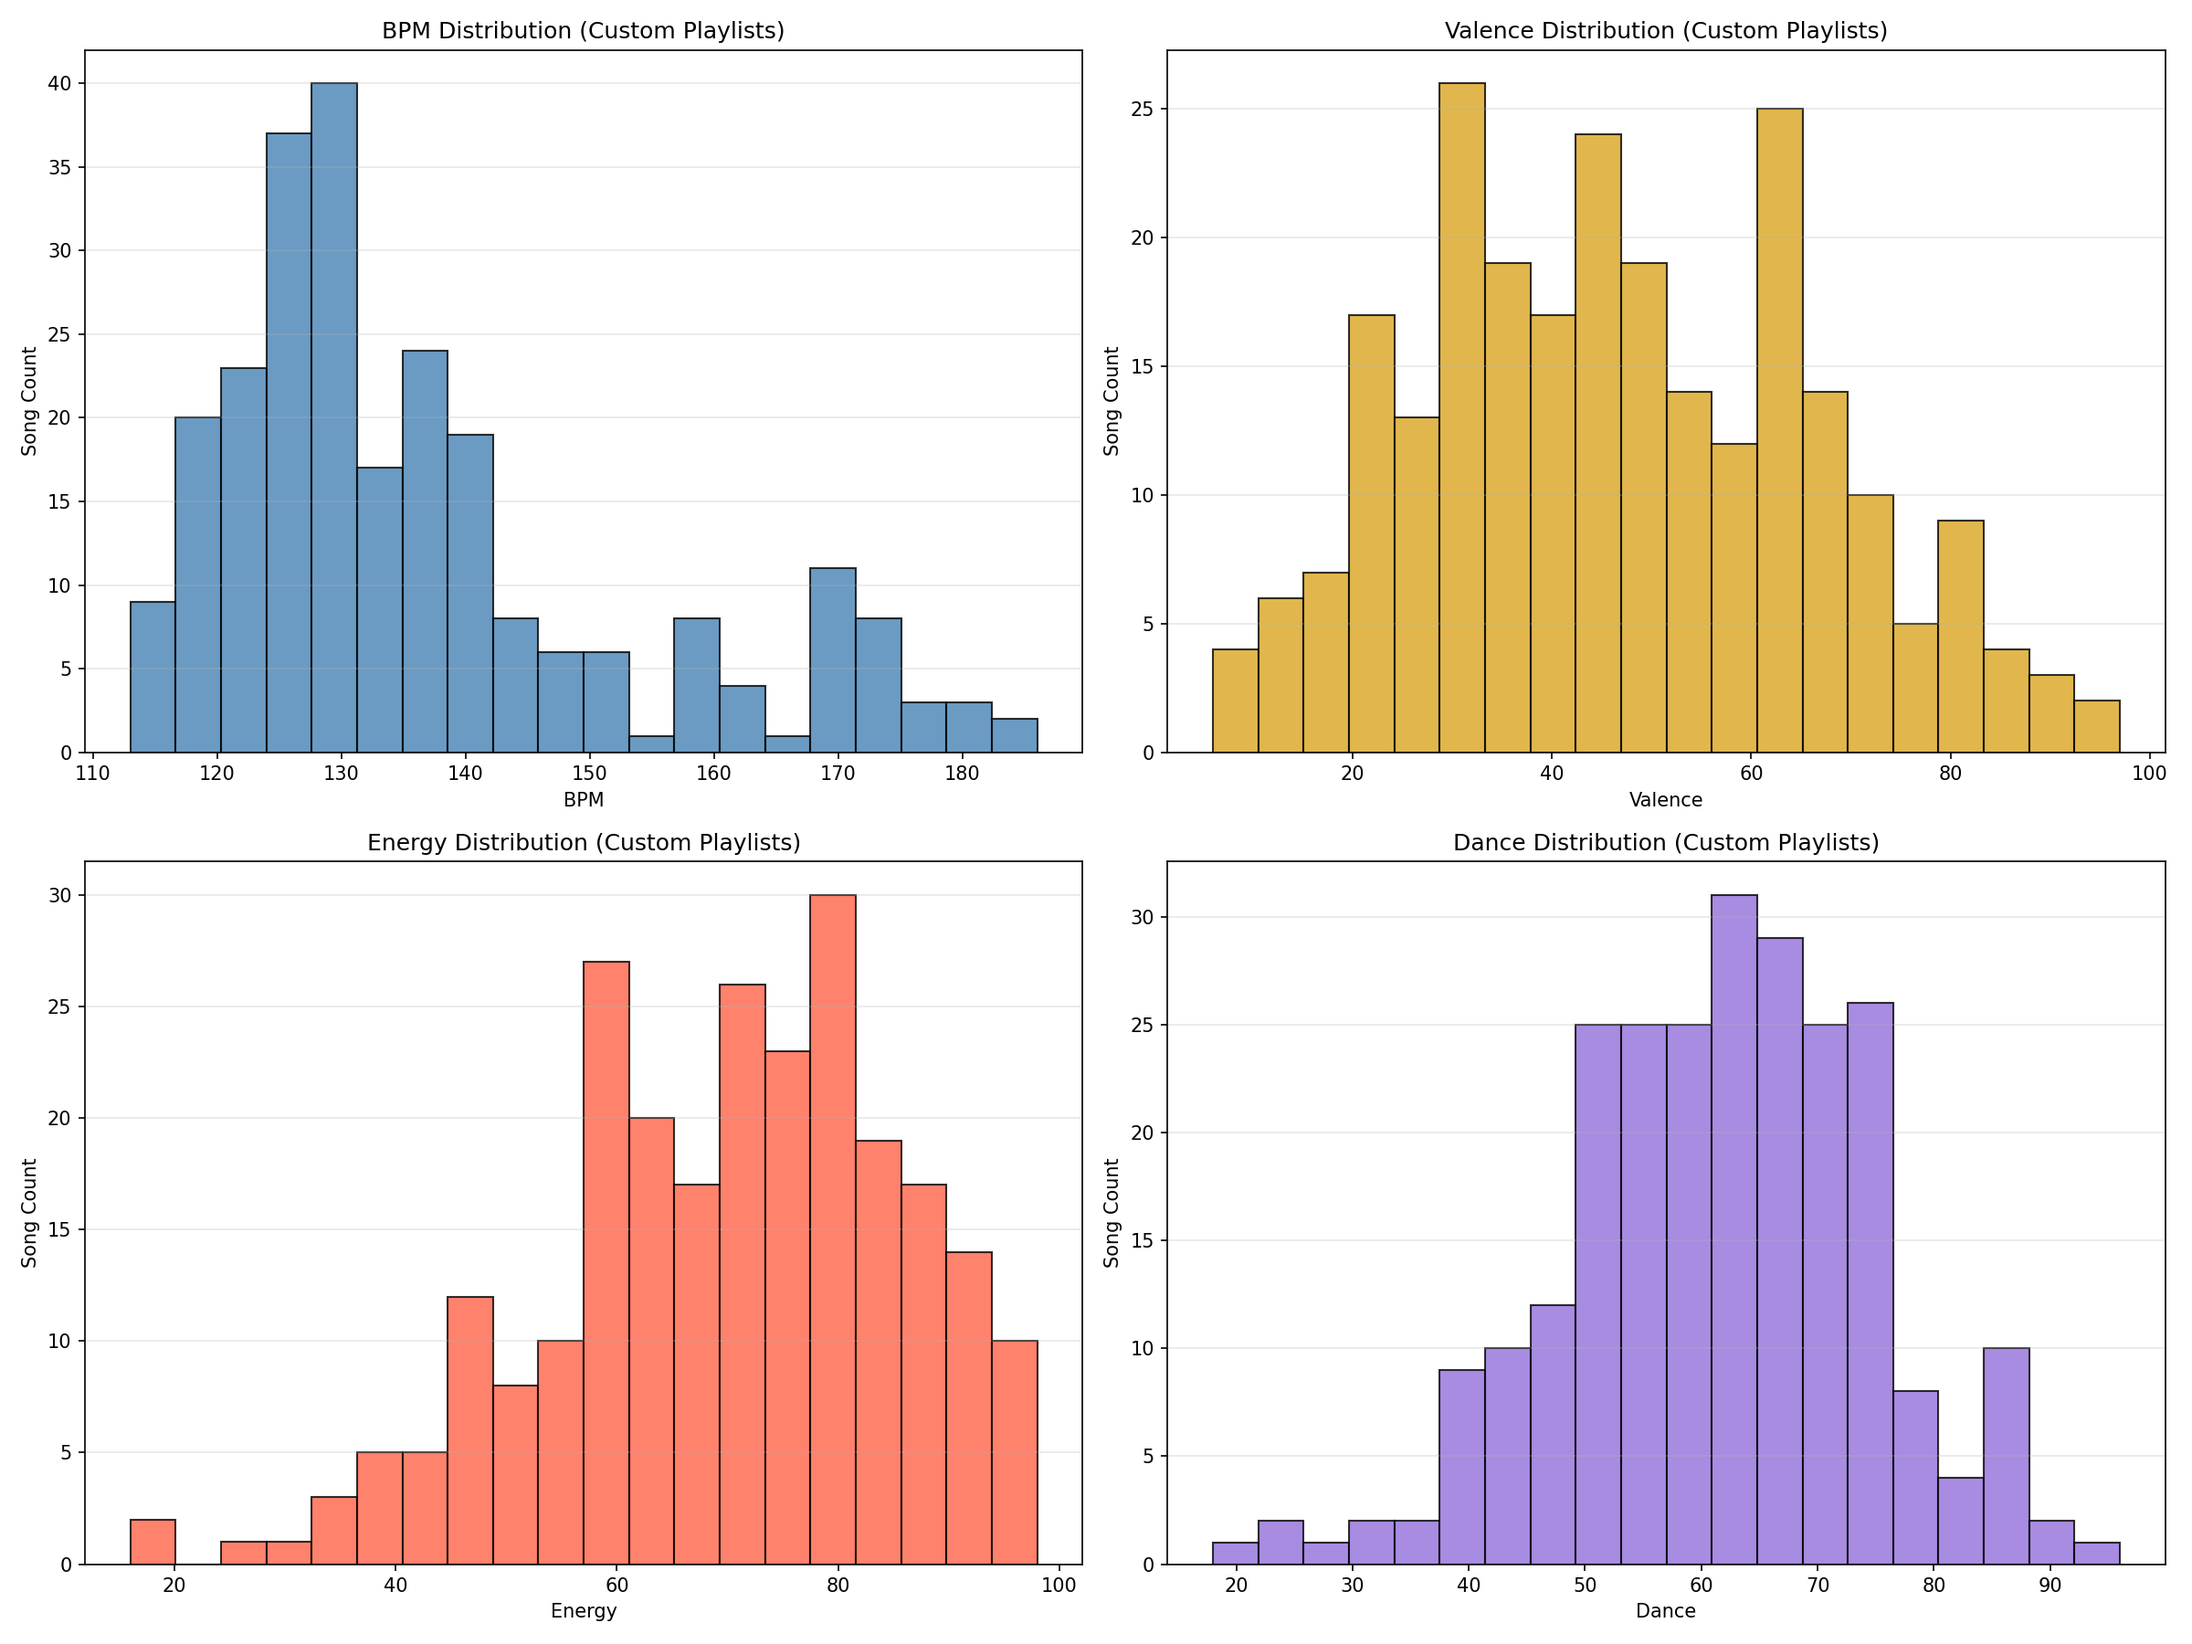
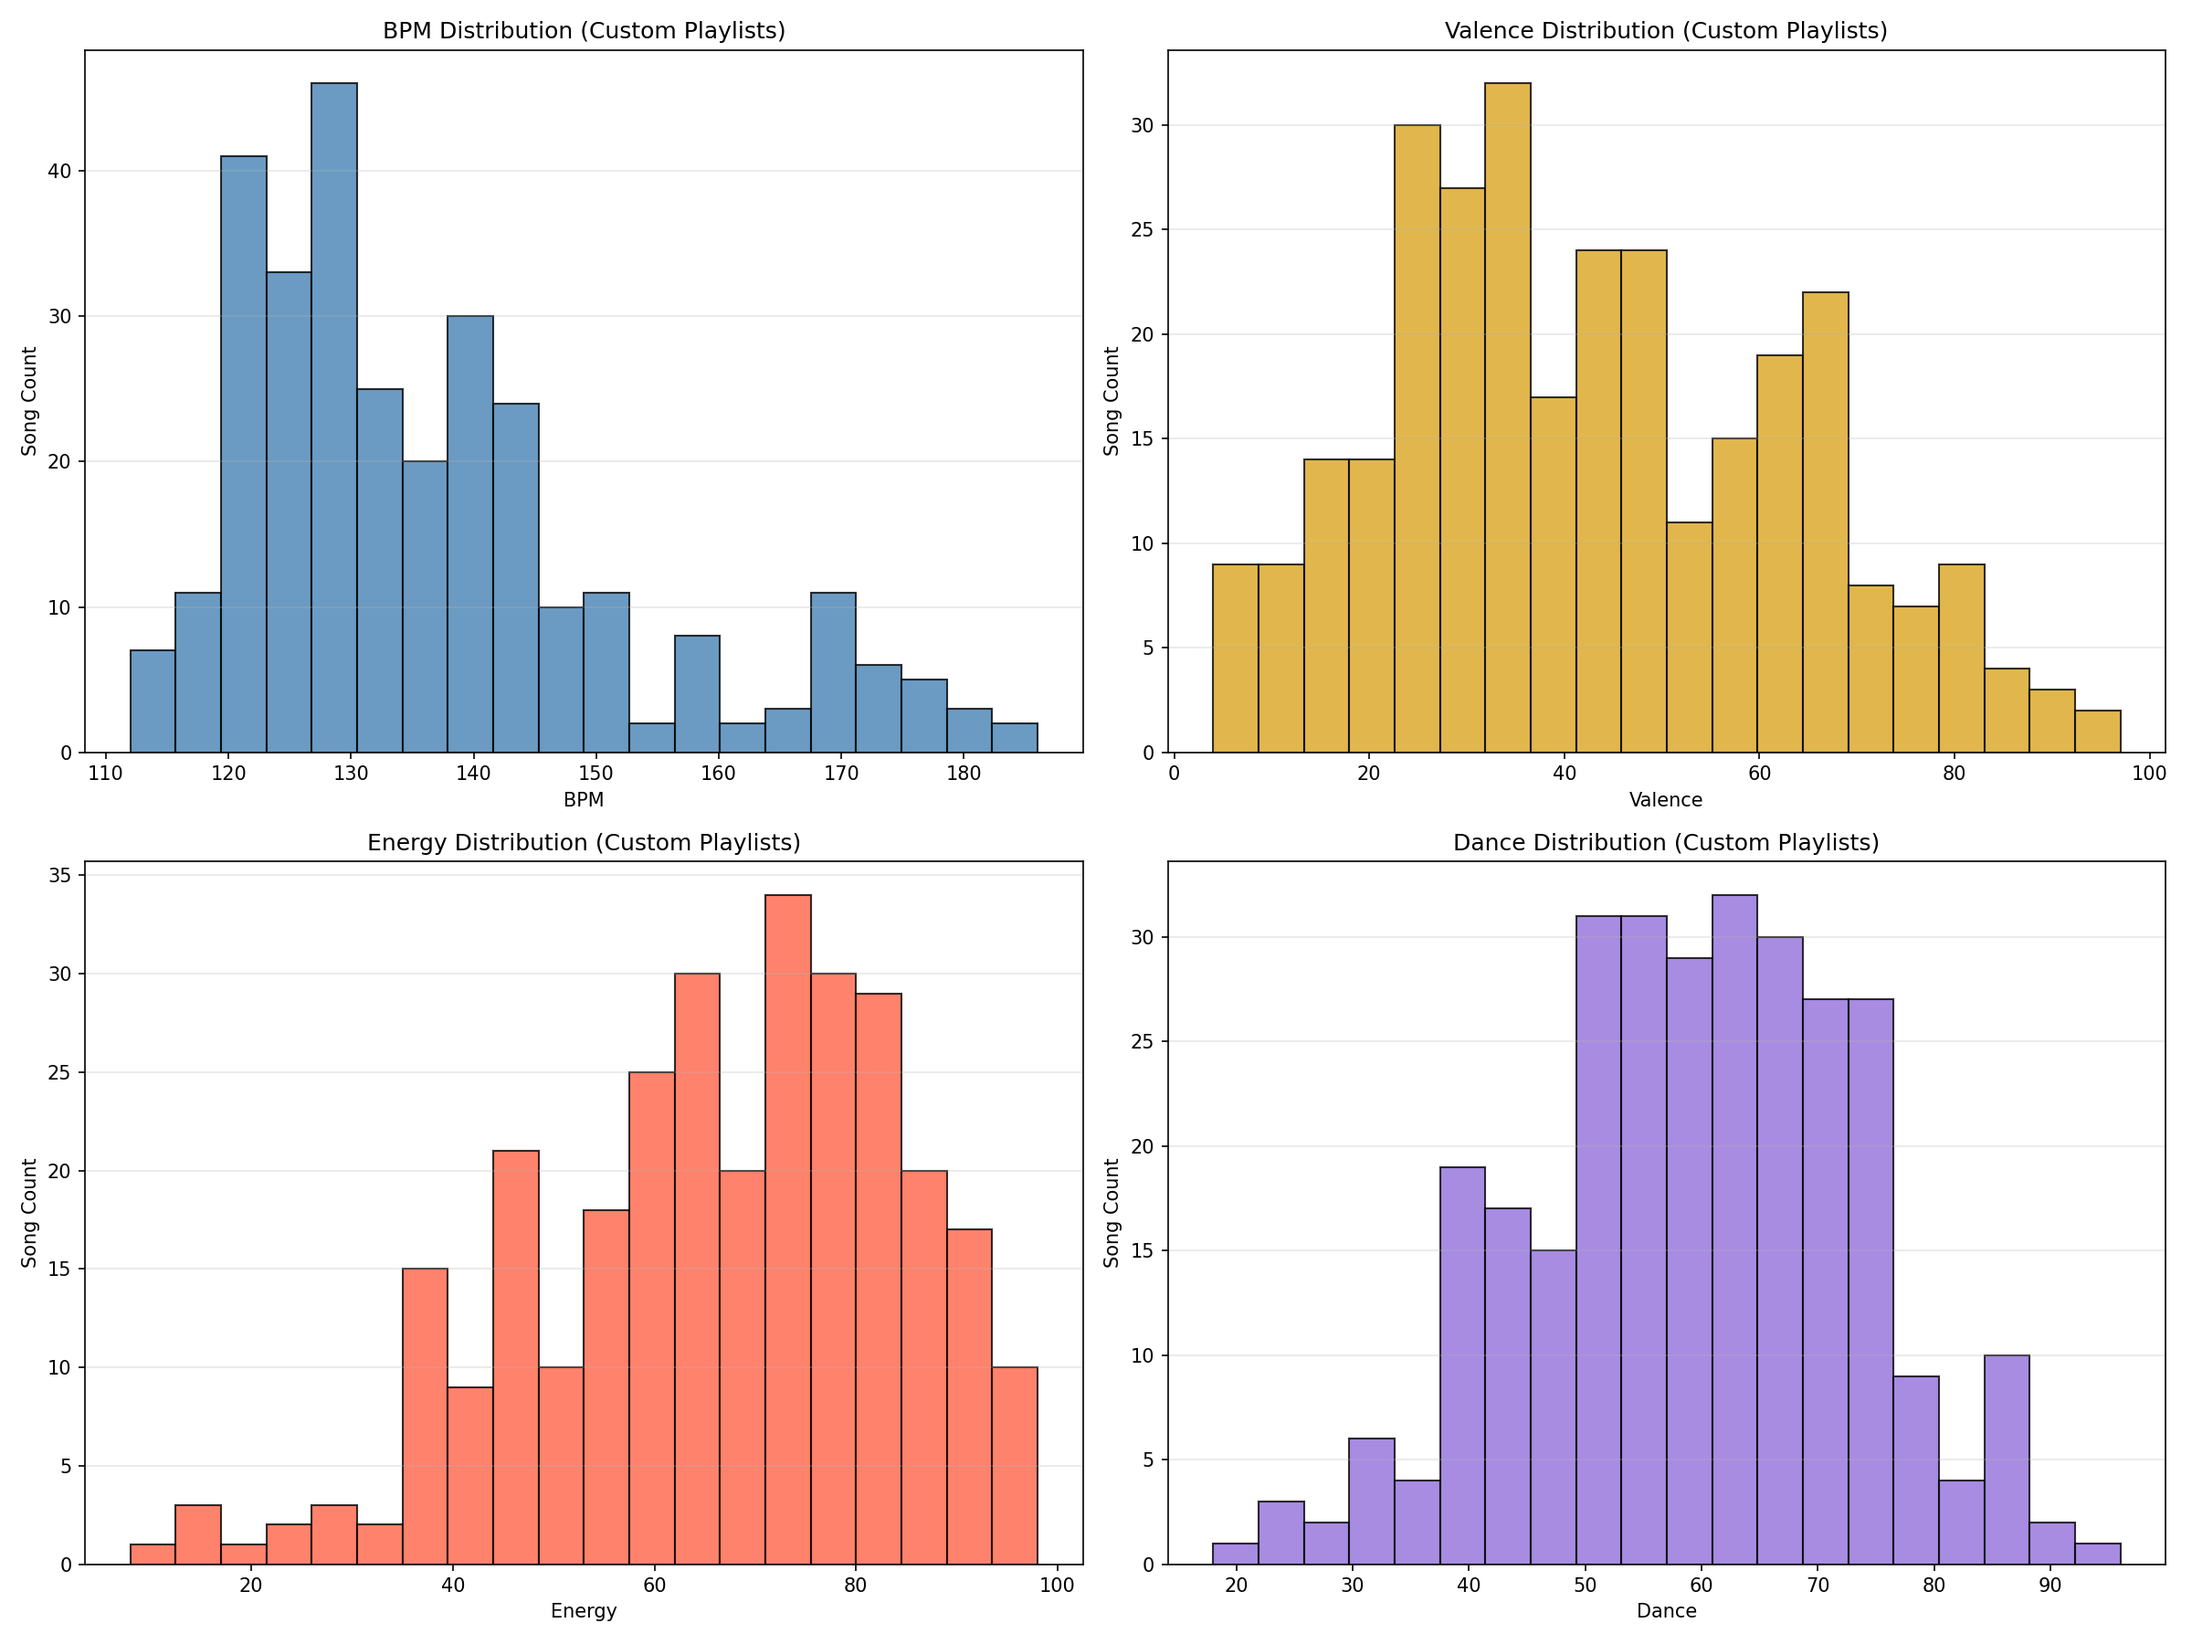
Commit doing_the_right_thing

diff --git a/README.md b/README.md
@@ -440,12 +440,13 @@ python src/db/count_custom_playlists.py
 **Sample output:**
 
 ```text
-Number of custom playlists: 5
+Number of custom playlists: 6
   - Snap Out Of It
   - SCARING ME
   - LABOUR
   - Never Have I Ever
   - Cringe
+  - Doing The Right Thing
 ```
 
 ### Visualize Custom Playlist Distributions
@@ -465,25 +466,27 @@ python src/analysis/visualize_custom_playlists.py
 
 ```text
 === Custom Playlist Summary ===
-Total playlists: 5
-Total songs: 250
+Total playlists: 6
+Total songs: 300
 
 Songs per playlist:
 playlist_name
-Cringe               50
-LABOUR               50
-Never Have I Ever    50
-SCARING ME           50
-Snap Out Of It       50
+Cringe                   50
+Doing The Right Thing    50
+LABOUR                   50
+Never Have I Ever        50
+SCARING ME               50
+Snap Out Of It           50
 
 Average features by playlist:
-                      bpm  valence  energy  dance  mood_score  distance
-playlist_name                                                          
-Cringe             125.62    34.68   62.70  64.44      161.82      0.37
-LABOUR             165.64    42.42   70.90  51.90      165.22      0.51
-Never Have I Ever  128.68    56.90   76.30  64.50      197.70      0.37
-SCARING ME         133.76    27.58   58.66  55.58      141.82      0.46
-Snap Out Of It     128.84    73.14   79.02  70.94      223.10      0.28
+                          bpm  valence  energy  dance  mood_score  distance
+playlist_name                                                              
+Cringe                 125.62    34.68   62.70  64.44      161.82      0.37
+Doing The Right Thing  136.86    22.76   49.38  47.76      119.90      0.57
+LABOUR                 165.64    42.42   70.90  51.90      165.22      0.51
+Never Have I Ever      128.68    56.90   76.30  64.50      197.70      0.37
+SCARING ME             133.76    27.58   58.66  55.58      141.82      0.46
+Snap Out Of It         128.84    73.14   79.02  70.94      223.10      0.28
 ```
 
 **Custom Playlist Distributions Chart:**
